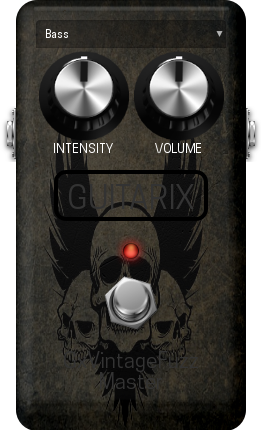
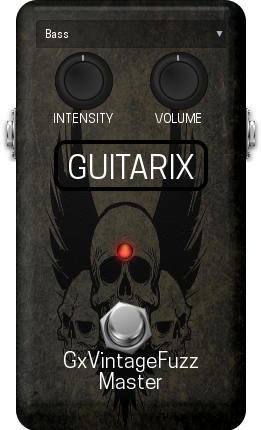
* reworked MOD UI

diff --git a/MOD/modgui/stylesheet-gxvintagefuzzmaster.css b/MOD/modgui/stylesheet-gxvintagefuzzmaster.css
@@ -53,7 +53,7 @@
     right:0;
     text-align:center;
     text-transform:uppercase;
-    top:160px;
+    top:130px;
 }
 
 .mod-pedal-boxy{{{cns}}} .mod-plugin-brand h1 {
@@ -118,9 +118,9 @@
     background-position:center center;
     background-repeat:no-repeat;
     height:32px;
-    left:10px;
+    left:3px;
     position:absolute;
-    right:10px;
+    right:15px;
     top:235px;
 }
 
@@ -147,8 +147,8 @@
     background-position:bottom center;
     background-repeat:no-repeat;
     background-size:auto 132px;
-    bottom: 95px;
-    left: 13px;
+    bottom: 70px;
+    left: 3px;
     right: 13px;
     cursor:pointer;
     height:66px;
@@ -239,9 +239,9 @@
 .mod-pedal-boxy{{{cns}}}.mod-two-knobs .mod-control-group .mod-knob .mod-knob-image {
     background-image:url(/resources/knobs/boxy/boxy.png{{{ns}}});
     background-repeat:no-repeat;
-    background-size:auto 90px;
-    height:90px;
-    width:90px;
+    background-size:auto 60px;
+    height:60px;
+    width:60px;
     margin:0 auto;
 }
 .mod-pedal-boxy{{{cns}}}.mod-two-knobs .mod-control-group .mod-knob > span.mod-knob-title {
@@ -252,7 +252,7 @@
     width:50%;
 }
 .mod-pedal-boxy{{{cns}}}.mod-two-knobs .mod-control-group .mod-knob {
-    height:103px;
+    height:73px;
 }
 
 /* THREE AND HIGHER KNOBS */
@@ -920,6 +920,30 @@
 .mod-pedal-boxy{{{cns}}}.mod-boxy100.mod-green {
     background-image:url(/resources/pedals/boxy100/green.png{{{ns}}});
 }
+.mod-pedal-boxy{{{cns}}}.mod-saturator {
+    background-image:url(/resources/pedals/boxy/saturator.png{{{ns}}});
+}
+.mod-pedal-boxy{{{cns}}}.mod-stb {
+    background-image:url(/resources/pedals/boxy/stb.png{{{ns}}});
+}
+.mod-pedal-boxy{{{cns}}}.mod-boxy75.mod-stb {
+    background-image:url(/resources/pedals/boxy75/stb.png{{{ns}}});
+}
+.mod-pedal-boxy{{{cns}}}.mod-voodoo {
+    background-image:url(/resources/pedals/boxy/voodoo.png{{{ns}}});
+}
+.mod-pedal-boxy{{{cns}}}.mod-boxy75.mod-voodoo {
+    background-image:url(/resources/pedals/boxy75/voodoo.png{{{ns}}});
+}
+.mod-pedal-boxy{{{cns}}}.mod-hyperion {
+    background-image:url(/resources/pedals/boxy/hyperion.png{{{ns}}});
+}
+.mod-pedal-boxy{{{cns}}}.mod-tonemachine {
+    background-image:url(/resources/pedals/boxy/tonemachine.png{{{ns}}});
+}
+.mod-pedal-boxy{{{cns}}}.mod-boxy75.mod-tonemachine {
+    background-image:url(/resources/pedals/boxy75/tonemachine.png{{{ns}}});
+}
 
 
 /* = COLORS - Color of the pedals labels
@@ -943,6 +967,10 @@
 .mod-pedal-boxy{{{cns}}}.mod-darkblue .mod-enumerated,
 .mod-pedal-boxy{{{cns}}}.mod-warning .mod-enumerated,
 .mod-pedal-boxy{{{cns}}}.mod-green .mod-enumerated
+.mod-pedal-boxy{{{cns}}}.mod-saturator .mod-enumerated
+.mod-pedal-boxy{{{cns}}}.mod-stb .mod-enumerated
+.mod-pedal-boxy{{{cns}}}.mod-hyperion .mod-enumerated
+.mod-pedal-boxy{{{cns}}}.mod-tonemachine .mod-enumerated
 {
     background-image:url(/resources/utils/dropdown-arrow-white.png{{{ns}}});
 }
@@ -1013,7 +1041,22 @@
 .mod-pedal-boxy{{{cns}}}.mod-warning .mod-control-group .mod-knob > span.mod-knob-title,
 .mod-pedal-boxy{{{cns}}}.mod-green h1,
 .mod-pedal-boxy{{{cns}}}.mod-green .mod-enumerated,
-.mod-pedal-boxy{{{cns}}}.mod-green .mod-control-group .mod-knob > span.mod-knob-title
+.mod-pedal-boxy{{{cns}}}.mod-green .mod-control-group .mod-knob > span.mod-knob-title,
+.mod-pedal-boxy{{{cns}}}.mod-saturator h1,
+.mod-pedal-boxy{{{cns}}}.mod-saturator .mod-enumerated,
+.mod-pedal-boxy{{{cns}}}.mod-saturator .mod-control-group .mod-knob > span.mod-knob-title,
+.mod-pedal-boxy{{{cns}}}.mod-stb h1,
+.mod-pedal-boxy{{{cns}}}.mod-stb .mod-enumerated,
+.mod-pedal-boxy{{{cns}}}.mod-stb .mod-control-group .mod-knob > span.mod-knob-title,
+.mod-pedal-boxy{{{cns}}}.mod-voodoo h1,
+.mod-pedal-boxy{{{cns}}}.mod-voodoo .mod-enumerated,
+.mod-pedal-boxy{{{cns}}}.mod-voodoo .mod-control-group .mod-knob > span.mod-knob-title,
+.mod-pedal-boxy{{{cns}}}.mod-hyperion h1,
+.mod-pedal-boxy{{{cns}}}.mod-hyperion .mod-enumerated,
+.mod-pedal-boxy{{{cns}}}.mod-hyperion .mod-control-group .mod-knob > span.mod-knob-title,
+.mod-pedal-boxy{{{cns}}}.mod-tonemachine h1,
+.mod-pedal-boxy{{{cns}}}.mod-tonemachine .mod-enumerated,
+.mod-pedal-boxy{{{cns}}}.mod-tonemachine .mod-control-group .mod-knob > span.mod-knob-title,
 .mod-pedal-boxy{{{cns}}}.mod-vintage h1,
 .mod-pedal-boxy{{{cns}}}.mod-vintage .mod-enumerated,
 .mod-pedal-boxy{{{cns}}}.mod-vintage .mod-control-group .mod-knob > span.mod-knob-title
@@ -1129,4 +1172,6 @@
     background-image:url(/resources/knobs/boxy/black.png{{{ns}}});
 }.mod-pedal-boxy{{{cns}}} .mod-control-group.mod-green .mod-knob .mod-knob-image {
     background-image:url(/resources/knobs/boxy/green.png{{{ns}}});
+}.mod-pedal-boxy{{{cns}}} .mod-control-group.mod-cairo .mod-knob .mod-knob-image {
+    background-image:url(/resources/knobs/boxy/cairo.png{{{ns}}});
 }
